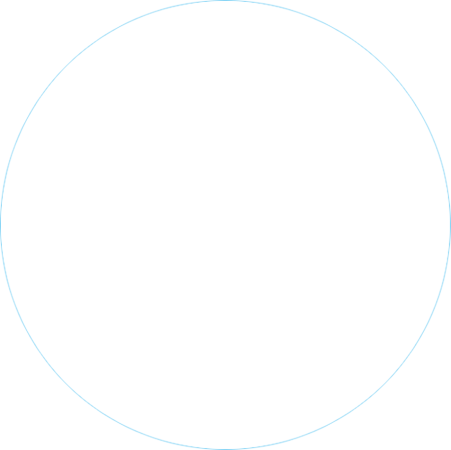
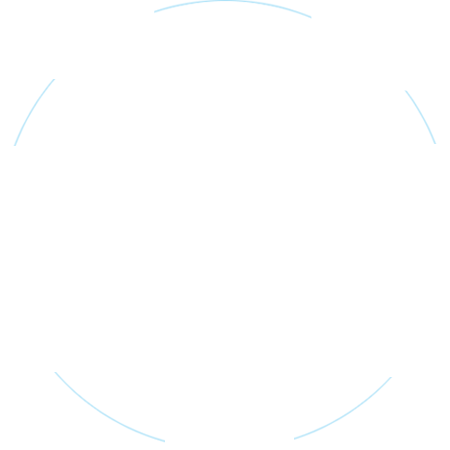
bottle_list

diff --git a/style/howe.css b/style/howe.css
@@ -94,6 +94,122 @@
 	color: #fff;
 	text-decoration: underline;
 }
+.bottle_list_page{
+	background: url(../img/list_bg.jpg) no-repeat center bottom;
+	background-size: 100% auto;
+	width: 100%;
+    height: 100%;
+    margin: 0 auto;
+    transition: transform 0.6s ease 0s;
+}
+.list_circle{
+	position: absolute;
+	bottom:30%;
+	left: 50%;
+	width: 225px;
+	height: 225px;
+	margin-left: -112px;
+	background: url(../img/list_circle.png) no-repeat center center;
+	background-size: 225px 225px;
+}
+.list_bottle{
+	position: absolute;
+}
+.list_bottle span{
+	display: inline-block;
+	width: 100%;
+	text-align: center;
+	position: absolute;
+	bottom: 0;
+	color: #fffefe;
+	bottom: -12%;
+}
+.list_bottle.huancai_bottle{
+	bottom:68%;
+	left: 17%;
+	width: 97px;
+	height: 94px;
+	background: url(../img/huancai.png) no-repeat center center;
+	background-size: 97px 94px;
+}
+.list_bottle.wujie_bottle{
+	bottom: 68%;
+	right: 20%;
+	width: 52px;
+	height: 94px;
+	background: url(../img/wujie.png) no-repeat center center;
+	background-size: 52px 94px;
+}
+.list_bottle.ganguan_bottle{
+	bottom: 40%;
+	left: 10%;
+	width: 40px;
+	height: 93px;
+	background: url(../img/ganguan.png) no-repeat center center;
+	background-size: 28px 93px;
+}
+.list_bottle.chaobo_bottle{
+	bottom: 40%;
+	right: 10%;
+	width: 40px;
+	height: 98px;
+	background: url(../img/chaobo.png) no-repeat center center;
+	background-size: 25px 98px;
+}
+.list_bottle.xingge_bottle{
+	bottom: 24%;
+	left: 45%;
+	width: 44px;
+	height: 98px;
+	background: url(../img/xingge.png) no-repeat center center;
+	background-size: 44px 98px;
+}
+.list_bottle.xingge_bottle span{
+	bottom: -4%;
+}
+@media (device-height:568px) and (-webkit-min-device-pixel-ratio:2){/* 兼容iphone5 */
+    .ip5.list_bottle.huancai_bottle,.ip5.list_bottle.wujie_bottle{
+    	bottom:60%;
+    }
+    .ip5.list_bottle.ganguan_bottle{
+		bottom: 39%;
+    }
+    .ip5.list_bottle.chaobo_bottle{
+    	bottom:38%;
+    }
+}
 
-
+@media (device-height:667px) and (-webkit-min-device-pixel-ratio:2){/* 兼容iphone6 */
+    .ip6.list_circle{
+    	width: 300px;
+		height: 300px;
+		margin-left: -150px;
+		background: url(../img/list_circle.png) no-repeat center center;
+		background-size: 300px 300px;
+    }
+    .ip6.list_bottle.huancai_bottle{
+    	bottom: 68%;
+    }
+    .ip5.list_bottle.ganguan_bottle,.ip5.list_bottle.chaobo_bottle{
+    	bottom: 43%;
+    }
+}
+@media (device-height:736px) and (-webkit-min-device-pixel-ratio:2){/* 兼容iphone6 Plus */
+    
+    .ip6.list_circle{
+    	width: 300px;
+		height: 300px;
+		margin-left: -150px;
+		background: url(../img/list_circle.png) no-repeat center center;
+		background-size: 300px 300px;
+    }
+    .ip6p.list_bottle.huancai_bottle{
+    	bottom: 62%;
+    	left: 16%;
+    }
+    .ip6p.list_bottle.wujie_bottle{
+		bottom: 62%;
+		right: 22%;
+    }
+}
 

diff --git a/index.html b/index.html
@@ -16,7 +16,7 @@
         <div class="logo"></div>
         <div class="main">
         
-            <section class="page1 swipe index_page">
+            <!-- <section class="page1 swipe index_page">
                 <p class="index_title">英特尔<span>®</span> 想怎么行  就这么行</p>
                 <p class="index_title1">未来超能瓶 跨界来袭</p>
 
@@ -24,9 +24,27 @@
 
                 <a class="index_link" href="####">活动声明</a>
                 <div class="down_tip"></div>
-            </section>
+            </section> -->
             <section class="page2 bottle_list_page">
-                
+                <div class="list_circle ip6 ip6p"></div>
+                <div class="list_bottle huancai_bottle ip5 ip6 ip6p">
+                    <span>幻彩瓶</span>
+                </div>
+                <div class="list_bottle wujie_bottle ip5 ip6 ip6p">
+                    <span>无界瓶</span>
+                </div>
+                <div class="list_bottle ganguan_bottle ip5 ip6 ip6p">
+                    <span>感光瓶</span>
+                </div>
+                <div class="list_bottle chaobo_bottle ip5 ip6 ip6p">
+                    <span>超薄瓶</span>
+                </div>
+                <div class="list_bottle xingge_bottle ip5 ip6 ip6p">
+                    <span>型格屏</span>
+                </div>
+                <div class="slogan_wrap">
+                    <h2 class="slogan">英特尔超能瓶 酷到没朋友</h2>    
+                </div><!-- /.slogan_wrap -->
                 <div class="down_tip"></div>
             </section>
             <section class="page3">33333333</section>

diff --git a/style/common.css b/style/common.css
@@ -209,7 +209,7 @@ video{
   height: 75px;
   position: absolute;
   text-align: center;
-  bottom: 5%;
+  bottom: 4%;
 }
 .turn{
   width: 25px;
@@ -217,7 +217,7 @@ video{
   margin: 0 auto -6px;
 }
 .slogan{
-  min-width: 170px;
+  min-width: 180px;
   height: 56px;
   display: inline-block;
   line-height: 56px;
@@ -227,6 +227,7 @@ video{
   text-align: center;
   font-size: 12px;
   margin: 0 14px;
+  letter-spacing: 2px;
 }
 .slogan::before,
 .slogan::after{
